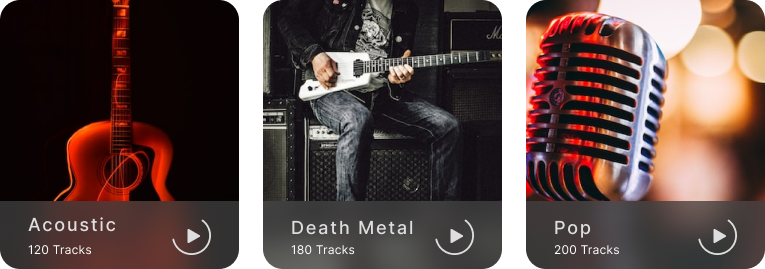
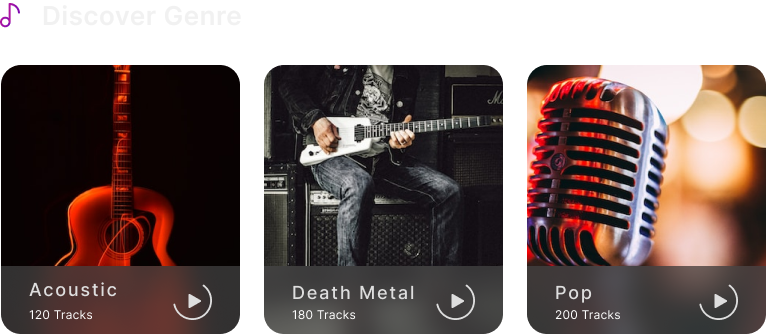
feat: new genre list , and fix global styles

diff --git a/front/src/components/pages/home/RightMenu.tsx b/front/src/components/pages/home/RightMenu.tsx
@@ -1,12 +1,18 @@
 import React from 'react'
-import img from './RightMenu.png'
+// import img from './RightMenu.png'
+import styled from 'styled-components'
 
 const RightMenu: React.FC = () => {
   return (
-    <div>
-      <img src={img} alt='' />
-    </div>
+    <MainMenuRight>
+      {/* <img src={img} alt='' /> */}
+    </MainMenuRight>
   )
 }
 
 export default RightMenu
+
+
+const MainMenuRight = styled.div`
+width:454px;
+`

diff --git a/front/src/theme/globalStyles.js b/front/src/theme/globalStyles.js
@@ -13,7 +13,7 @@ const GlobalStyle = createGlobalStyle`
     display:flex;
     justify-content:center;
   padding-top:20px; 
-   min-height: calc(100vh - 223px);
+   min-height: calc(100vh - 130px);
   }
 `
 
